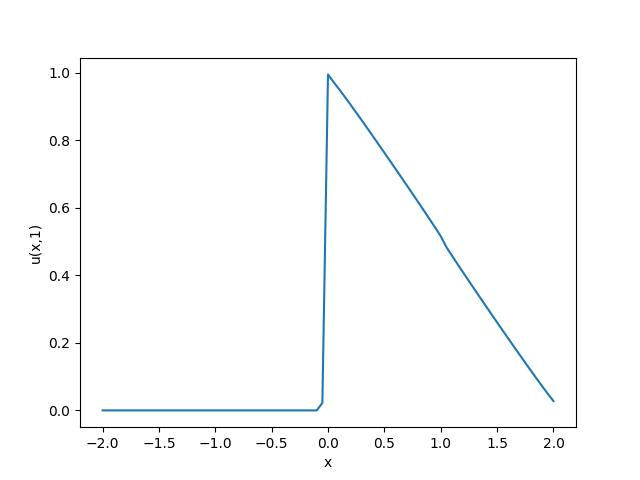
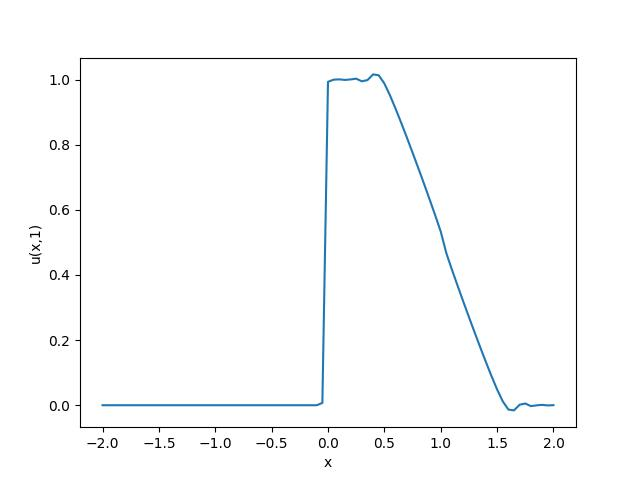
Finished 11-5

diff --git a/homeworks/DiscontinuousGalerkin1D/mysolution/discontinuousgalerkin1d_main.cc b/homeworks/DiscontinuousGalerkin1D/mysolution/discontinuousgalerkin1d_main.cc
@@ -13,24 +13,27 @@
 #include "discontinuousgalerkin1d.h"
 
 int main() {
-  DiscontinuousGalerkin1D::Solution solution =
-      DiscontinuousGalerkin1D::solveTrafficFlow();
-
-  const static Eigen::IOFormat CSVFormat(Eigen::FullPrecision,
-                                         Eigen::DontAlignCols, ", ", "\n");
-
-  //====================
-  // Your code goes here
-  // Use std::ofstream to write the solution to
-  // the file "solution.csv". To plot this file
-  // you may uncomment the following line:
   std::ofstream file;
   file.open("solution.csv");
-  file << solution.x_.transpose().format(CSVFormat) << std::endl;;
-  file << solution.u_.transpose().format(CSVFormat) << std::endl;;
+  file << solution.u_.transpose().format(CSVFormat) << std::endl;
+  for(double T = 0; T < 5; T+=0.1){
+      DiscontinuousGalerkin1D::Solution solution =
+          DiscontinuousGalerkin1D::solveTrafficFlow(T);
+
+      const static Eigen::IOFormat CSVFormat(Eigen::FullPrecision,
+                                             Eigen::DontAlignCols, ", ", "\n");
+
+      //====================
+      // Your code goes here
+      // Use std::ofstream to write the solution to
+      // the file "solution.csv". To plot this file
+      // you may uncomment the following line:
+      
+      file << solution.x_.transpose().format(CSVFormat) << std::endl;
+  }
   file.close();
-  std::system("python3 " CURRENT_SOURCE_DIR "/plot_solution.py "
-  CURRENT_BINARY_DIR "/solution.csv " CURRENT_SOURCE_DIR "/solution.jpg");
+  // std::system("python3 " CURRENT_SOURCE_DIR "/plot_solution.py "
+  // CURRENT_BINARY_DIR "/solution.csv " CURRENT_SOURCE_DIR "/solution.jpg");
   //====================
 
   return 0;

diff --git a/homeworks/DiscontinuousGalerkin1D/mysolution/plot_solution.py b/homeworks/DiscontinuousGalerkin1D/mysolution/plot_solution.py
@@ -1,18 +1,24 @@
 from matplotlib.pyplot import figure, plot, savefig, xlabel, ylabel
 from numpy import genfromtxt
 from sys import argv
+from mpl_toolkits import mplot3d
 
 input_file = str(argv[1])
 output_file = str(argv[2])
 
 data = genfromtxt(input_file, delimiter=',')
-x = data[0]
-y = data[1]
+x = data[1]
+y = data[0]
 
-figure()
-plot(x, y)
-xlabel('x')
-ylabel('u(x,1)')
-savefig(output_file)
+#figure()
+#plot(x, y)
+#xlabel('x')
+#ylabel('u(x,1)')
+#savefig(output_file)
+#
+#print('Generated ' + output_file)
 
-print('Generated ' + output_file)
+fig = plt.figure()
+ax = plt.axes(projection='3d')
+
+ax.plot3D(xline, yline, zline, 'gray')

diff --git a/homeworks/DiscontinuousGalerkin1D/mysolution/discontinuousgalerkin1d.cc b/homeworks/DiscontinuousGalerkin1D/mysolution/discontinuousgalerkin1d.cc
@@ -47,7 +47,7 @@ double Feo(double v, double w) {
 /* SAM_LISTING_END_2 */
 
 /* SAM_LISTING_BEGIN_3 */
-Solution solveTrafficFlow() {
+Solution solveTrafficFlow(double T) {
     int Ml = 40;
     int Mr = 40;
     int N_half = Mr + Ml + 1;
@@ -55,7 +55,7 @@ Solution solveTrafficFlow() {
 
     double h = 0.05;
     double tau = h / 3;
-    double T = 1.0;
+    //double T = 1.0;
     unsigned int m = (unsigned int)(T / tau);
 
     //====================

diff --git a/homeworks/DiscontinuousGalerkin1D/mysolution/test/discontinuousgalerkin1d_test.cc b/homeworks/DiscontinuousGalerkin1D/mysolution/test/discontinuousgalerkin1d_test.cc
@@ -129,7 +129,7 @@ TEST(DiscontinuousGalerkin1D, solveTrafficFlow) {
       0.141124850373491, 0.117652074693168, 0.0944226883068558,
       0.0715337805934138, 0.0491671351972135, 0.0277037926098554;
 
-  DiscontinuousGalerkin1D::Solution solution = solveTrafficFlow();
+  DiscontinuousGalerkin1D::Solution solution = solveTrafficFlow(1.0);
 
   // test for correct length
   ASSERT_EQ(solution.x_.size(), solution.u_.size());

diff --git a/homeworks/DiscontinuousGalerkin1D/mysolution/discontinuousgalerkin1d.h b/homeworks/DiscontinuousGalerkin1D/mysolution/discontinuousgalerkin1d.h
@@ -152,6 +152,6 @@ struct Solution {
  * with mesh-width h = 0.05, on th time interval [0, 1] with timestep size h
  * / 3. The solution at endtime is written to solution.csv.
  */
-Solution solveTrafficFlow();
+Solution solveTrafficFlow(double T);
 
 }  // namespace DiscontinuousGalerkin1D
